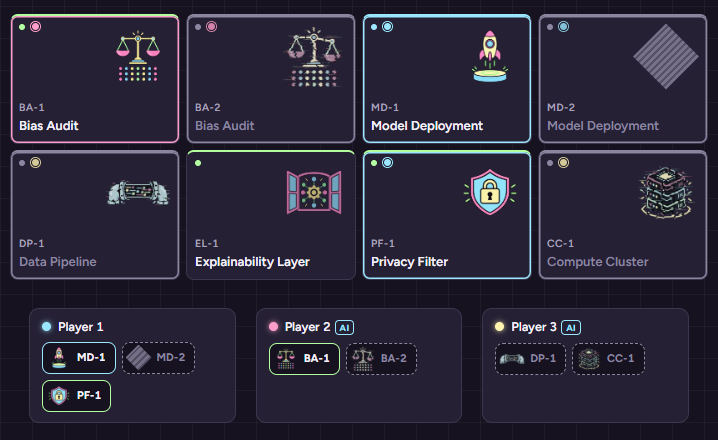
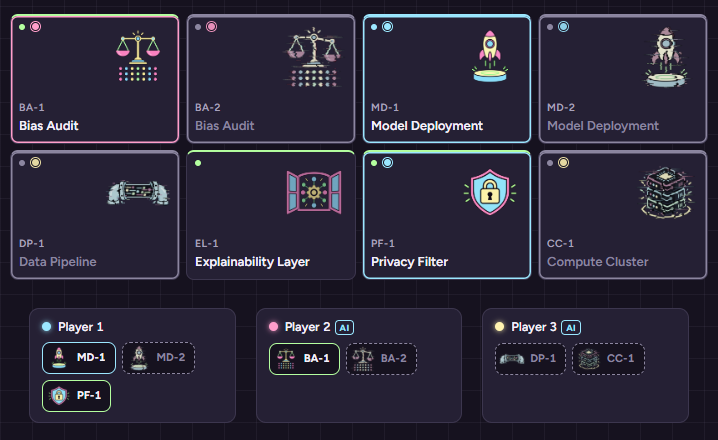
add 2026-09-25 daily report, refresh docs and Model Reveal screenshots
- New reports/DAILY_REPORT_2026-09-25.md covering the model-deployment glitchy
  asset and the typography revert/audit.
- DOCUMENTATION.md: asset section now reflects that every module has clean and
  glitchy art; typography section describes the exact Lora/sans split and the
  inherited-font gotcha; image-weight figure corrected.
- Retook the Model Reveal and module-states screenshots showing the new
  Model Deployment glitchy art and the upright Lora typography.

Claude-Session: https://claude.ai/code/session_01J7W6gNkcV26itQpkt7QQDu

Changed region(s): [[0.8886, 0.0591, 0.9805, 0.2068], [0.1532, 0.7682, 0.2145, 0.8568]]

diff --git a/reports/DAILY_REPORT_2026-09-25.md b/reports/DAILY_REPORT_2026-09-25.md
@@ -1,0 +1,37 @@
+# Daily Report — 2026-09-25
+
+## What was built today
+- **Missing asset wired in:** `model-deployment-glitchy.png` was added to `src/assets/modules/`. Module art is looked up by filename, so it needed no code change — a Model Deployment that flips to glitchy now shows the greyed glitch-art rocket on its board tile, its owned-modules chip, and its spot on the Model Reveal robot. Confirmed in the browser: the same states previously drew 2 grey placeholder shapes and now draw 0.
+- **Typography reverted to the Lora / Proxima Nova pairing, and audited across every screen** (main board, quiz card overlay, leaderboard, Model Reveal + submit form) by reading each element's computed font. Result: Lora only on the game title, "Winner" badge, player names, score numbers, and the title-like lines (Model Reveal heading and winner announcement, leaderboard title, card-back deck names); the sans stack on all stat labels, buttons, quiz text, inputs, and UI chrome.
+- **Committed and pushed** (`10bbe0d`). Note this commit also carries the visual restyle from earlier today (dark `#16121f` + pastel palette, illustrated module art, chassis-based Model Reveal), which had never been committed; the commit body says so.
+- Docs refreshed (`DOCUMENTATION.md` asset and typography sections, corrected image-weight figure) and the Model Reveal and module-states screenshots retaken.
+
+## Bugs encountered
+- **"AI" badge rendered in serif on the Model Reveal** — it has no font of its own, so inside the serif player name it inherited Lora, while on every other screen it was sans. Found by the computed-font audit; fixed by pinning the badge to sans.
+- **Italic Lora on the "Winner" badge and winner announcement** — my own flourish, not part of the pairing. Made regular Lora, and the Google Fonts request no longer includes the unused italic and 400-weight faces.
+- **Proxima Nova is not available from Google Fonts** (commercial typeface), so the "pull both from Google Fonts" requirement cannot be met literally. **Status: unresolved / needs a decision.** The stack is `'Proxima Nova', 'Figtree'`: anyone with Proxima Nova installed gets it; everyone else gets Figtree from Google Fonts.
+- **Mistake on my side:** I accidentally wrote a stray 6-byte file to `C:\HENRYG~1\placeholder.txt`, outside the project. The environment blocked me from deleting it, so I left it. It's harmless and git never sees it, but it can be deleted by hand.
+- Browser checks timed out a few times while the ~1 MB PNGs decoded — a reminder that the art is much larger than the sizes it's shown at.
+
+## Decisions made
+- Kept the Proxima Nova → Figtree stack rather than silently swapping fonts; options are listed under next steps.
+- Left the trust-panel and control-panel player names in sans (they are functional labels); serif is reserved for titles and "moments".
+- Left the 4 unrelated older lint warnings in `GameBoard.jsx` and `FlyingModuleChip.jsx` alone; nothing new was introduced.
+
+## Next session
+- **Decide the body font:** keep Figtree, pick another Google Fonts option (e.g. Montserrat or Nunito Sans), or license and self-host real Proxima Nova files.
+- Write the real question content for the Math and Ethics decks (all 36 cards are still blank placeholders).
+- Export smaller versions of the module and chassis art (about 256–512 px, same filenames) — the current set is about 11 MB for icons shown at 26–70 px.
+- Create the Supabase project and keys so the leaderboard can be tested against a real backend (so far it has only been tested against a local mock).
+- Consider a "Play again" flow after the Model Reveal, and deployment.
+
+## Completion status
+- **Done:** board layout; dice and token movement; quiz card data model and flip UI; full turn resolution; git repo and GitHub remote; live 3-axis Trust Score; AI opponents; Model Reveal end screen; optional leaderboard (code complete); visual restyle with the full illustration set (all 6 modules in clean and glitchy, plus the chassis).
+- **In progress:** typography (Lora done; sans is a Figtree stand-in pending the font decision); documentation upkeep.
+- **Not started:** real quiz content, art optimization, real-backend leaderboard test, play-again flow, state persistence, deployment.
+- **Git status:** `10bbe0d` is pushed to `origin/master`; this report and the docs/screenshot refresh are a separate follow-up commit.
+
+## Screenshots
+![Model Reveal — fixed asset and reverted typography](../screenshots/model-reveal.png)
+
+![Module states — glitchy Model Deployment now uses its illustration](../screenshots/module-states.png)

diff --git a/DOCUMENTATION.md b/DOCUMENTATION.md
@@ -222,11 +222,15 @@ the primary accent (Roll button, active turn) and penalties. Players are blue
 ring, grey label, dashed grey chip, and a desaturated version of its art.
 Everything is defined as tokens at the top of `index.css`.
 
-**Typography.** Two families only. **Lora** (serif) is for titles and
-"moments": the game title, "Model Reveal", player names and scores in the
-reveal, the winner badge and announcement, the leaderboard title, and the
-card-back deck names. Everything functional (buttons, quiz text, panels,
-labels, numbers) is sans. Proxima Nova is a commercial font that Google Fonts
+**Typography.** Two families only, both upright (no italic faces are
+loaded). **Lora** (serif, weights 500/600/700) is for titles and "moments":
+the game title, "Model Reveal" and its winner announcement, player names and
+score numbers on the reveal, the "Winner" badge, the leaderboard title, and
+the card-back deck names. Everything functional (buttons, quiz text, panels,
+stat labels, inputs, the small "AI" tags, numbers) is sans. A serif element can
+contain functional children (the "AI" tag sits inside a serif player name on
+the reveal), so those components set their own `font-family` instead of
+inheriting. Proxima Nova is a commercial font that Google Fonts
 doesn't host, so the sans stack is `'Proxima Nova', 'Figtree', ...`: anyone
 with Proxima Nova installed gets it, and everyone else gets Figtree from
 Google Fonts. To use the real thing, license it (e.g. Adobe Fonts), load it,
@@ -245,13 +249,14 @@ on the Model Reveal creature.
 
 **Missing art never breaks the build.** Because files are globbed, a missing
 illustration just makes the lookup return `null`, and `ModuleIcon` draws the
-original CSS placeholder shape for that module/state instead. Right now that
-applies to `model-deployment-glitchy.png`, which doesn't exist yet: a glitchy
-Model Deployment shows a grey striped diamond. Dropping the file into
-`src/assets/modules/` is all it takes; no code change.
+original CSS placeholder shape for that module/state instead. Every module now
+has both a clean and a glitchy illustration (12 files) plus the chassis, so no
+placeholders appear in normal play; the fallback stays for any future module or
+state that lacks art. The most recent gap, `model-deployment-glitchy.png`,
+needed no code change once the file was added.
 
-**Image weight.** The current PNGs are 1254x1254 (0.4-1.3 MB each, about 9 MB
-total) but display at 26-70 px. It works, but smaller exports of the same
+**Image weight.** The current PNGs are 1254x1254 (0.4-1.3 MB each, about 11 MB
+total with the chassis) but display at 26-70 px. It works, but smaller exports of the same
 files (roughly 256-512 px) would load faster, especially on slower devices.
 
 ### Leaderboard (optional)
@@ -343,14 +348,15 @@ prompt/options and its deck/tier.*
 
 ![Module states](screenshots/module-states.png)
 *Module states side by side (sample data): owned and clean, glitchy (greyed
-art, dashed chip), glitchy with no illustration yet (placeholder shape), and
-an open, unowned module.*
+art and a dashed chip, including the Model Deployment rocket), and an open,
+unowned module.*
 
 ![Model Reveal](screenshots/model-reveal.png)
 *The end-of-game reveal screen — each player's creature assembled from
 their owned modules, with the highest Trust Score highlighted as the
 winner (shown here with representative sample data, since reaching a real
-end-game state requires a full playthrough).*
+end-game state requires a full playthrough). Player 2's glitchy Model
+Deployment rocket is in the bottom-right corner.*
 
 ![Submit score form](screenshots/submit-score.png)
 *With the leaderboard enabled, the human player's submit form appears once
